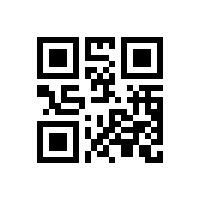
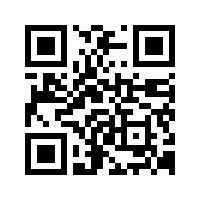
QR code host working on full view

Changed region(s): [[0.12, 0.12, 0.9, 0.9]]

diff --git a/src/TDISpring/SyL/src/main/resources/templates/carForm.html b/src/TDISpring/SyL/src/main/resources/templates/carForm.html
@@ -72,7 +72,7 @@
                                 <p  th:text="${verifiedCar}?:''">Confirmacion</p>
                             </div>
                             <img src="/img/url.png" alt="QR Code for remote page">
-                            <a href="127.0.1.1:8080/" th:text="${autolink}?:''">127.0.1.1:8080/</a>
+                            <a href="127.0.1.1:8080/" th:text="${autolink}?:''">https://127.0.1.1:8080/</a>
                         </div>
 
                     </div>

diff --git a/src/TDISpring/SyL/src/main/java/fciencias/unam/SyL/service/CarService.java b/src/TDISpring/SyL/src/main/java/fciencias/unam/SyL/service/CarService.java
@@ -1,7 +1,6 @@
 package fciencias.unam.SyL.service;
 
 
-import org.hibernate.mapping.Map;
 import org.springframework.beans.factory.annotation.Autowired;
 import org.springframework.stereotype.Service;
 
@@ -28,9 +27,6 @@ import com.google.zxing.common.BitMatrix;
 import com.google.zxing.qrcode.decoder.ErrorCorrectionLevel;  
 
 
-
-
-
 import java.util.HashMap;
 import java.util.List;
 
@@ -42,7 +38,8 @@ import fciencias.unam.SyL.entity.Carr;
 import java.io.File;
 import java.io.IOException;
 import java.lang.RuntimeException;
-
+import java.net.DatagramSocket;
+import java.net.InetAddress;
 import java.util.Optional;
 
 import javax.imageio.ImageIO;
@@ -83,37 +80,22 @@ public class CarService{
         return true;
     }
     
-    public static void generateQRcode(String data, String path, String charset, Map map, int h, int w) throws WriterException, IOException{
-        //the BitMatrix class represents the 2D matrix of bits  
-        //MultiFormatWriter is a factory class that finds the appropriate Writer subclass for the BarcodeFormat requested and encodes the barcode with the supplied contents.  
-        try{
-            BitMatrix matrix = new MultiFormatWriter().encode(new String(data.getBytes(charset), charset), BarcodeFormat.QR_CODE, w, h);
-
-            MatrixToImageWriter.writeToFile(matrix, path.substring(path.lastIndexOf('.') + 1), new File(path));  
+    public String getHostLink(){
+        String url = "http://";
+        try (final DatagramSocket datagramSocket = new DatagramSocket()) {
+            datagramSocket.connect(InetAddress.getByName("8.8.8.8"), 12345);
+            url = url + (datagramSocket.getLocalAddress().getHostAddress());
         }catch(Exception e){
-            System.out.print(e.getMessage());
         }
-    }  
-
-
-    public static void create(){
-        //data that we want to store in the QR code  
-        String str= "THE HABIT OF PERSISTENCE IS THE HABIT OF VICTORY.";  
-        //path where we want to get QR Code  
-        String path = "/home/rodriginsky/Desktop/Repos/Parking/Parking/qr.png";  
-        //Encoding charset to be used  
-        String charset = "UTF-8";  
-        // Map<EncodeHintType, ErrorCorrectionLevel> hashMap = new HashMap<EncodeHintType, ErrorCorrectionLevel>();  
-        //generates QR code with Low level(L) error correction capability  
-        // hashMap.put(EncodeHintType.ERROR_CORRECTION, ErrorCorrectionLevel.L);  
-        //invoking the user-defined method that creates the QR code  
+        url = url + ":8080/";
+        return url;
+    }
+    public void generateHostLinkQR(String path){
         try{
-            generateQRcode(str, path, charset, null, 200, 200);//increase or decrease height and width accodingly   
+            saveQRCode(path, getHostLink());
         }catch(Exception e){
-            System.out.print(e.getMessage());
+
         }
-        //prints if the QR code is generated   
-        System.out.println("QR Code created successfully.");  
     }
 
     public void saveQRCode(String path, String qrText){

diff --git a/src/TDISpring/SyL/src/main/java/fciencias/unam/SyL/controllers/HomeController.java b/src/TDISpring/SyL/src/main/java/fciencias/unam/SyL/controllers/HomeController.java
@@ -1,5 +1,6 @@
 package fciencias.unam.SyL.controllers;
 
+import java.net.DatagramSocket;
 import java.net.InetAddress;
 import java.time.format.DateTimeFormatter;
 
@@ -49,6 +50,7 @@ public class HomeController {
     }
     @GetMapping("/")
     public String agregarCarro(Model model){
+        carService.generateHostLinkQR("/home/rodriginsky/Desktop/Repos/Parking/Parking/src/TDISpring/SyL/src/main/resources/static/img/url.png");
         return "carForm";
     }
     
@@ -91,16 +93,7 @@ public class HomeController {
     @GetMapping("/test")
     @ResponseBody
     public String test(){
-        String url = "http://";
-        try{
-            InetAddress myIp = InetAddress.getLocalHost();
-            url = url + myIp.getHostAddress();
-        }catch(Exception ex){
-            System.out.println(ex.getMessage());
-        }
-        url = url + ":8080/";
-        carService.saveQRCode("/home/rodriginsky/Desktop/Repos/Parking/Parking/url.png", url);
-        return url;
+        
     }
         
 }

diff --git a/src/TDISpring/SyL/src/main/java/fciencias/unam/SyL/service/TicketGeneratorService.java b/src/TDISpring/SyL/src/main/java/fciencias/unam/SyL/service/TicketGeneratorService.java
@@ -1,7 +1,6 @@
 package fciencias.unam.SyL.service;
 
 
-import org.springframework.cglib.core.Local;
 import org.springframework.stereotype.Service;
 
 import fciencias.unam.SyL.entity.Car;
